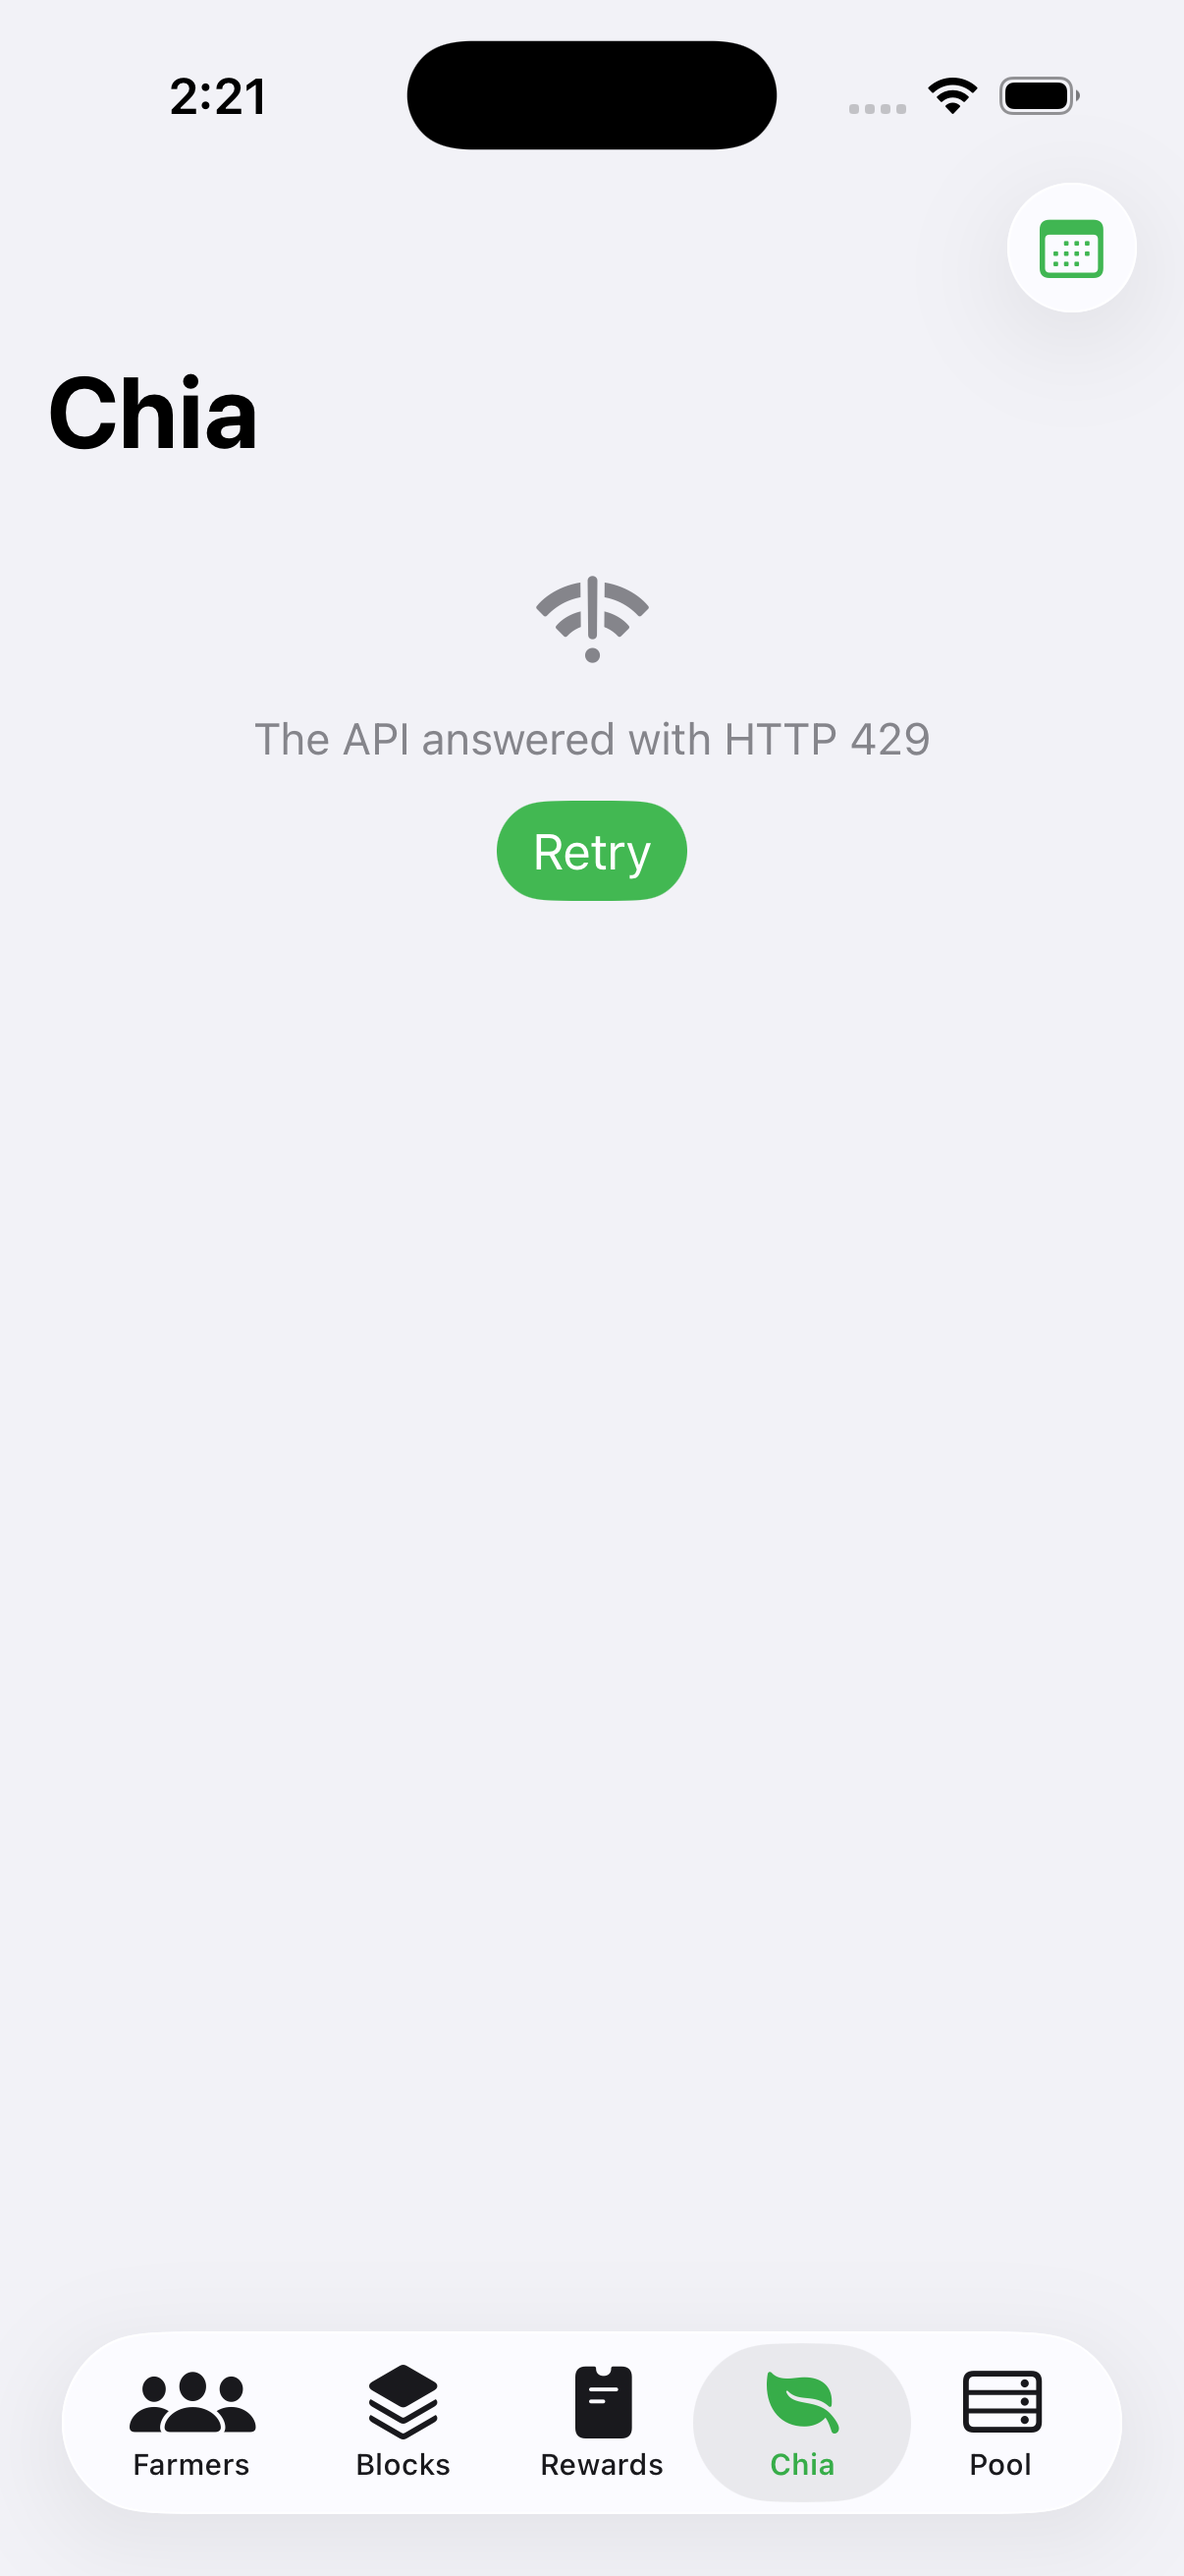
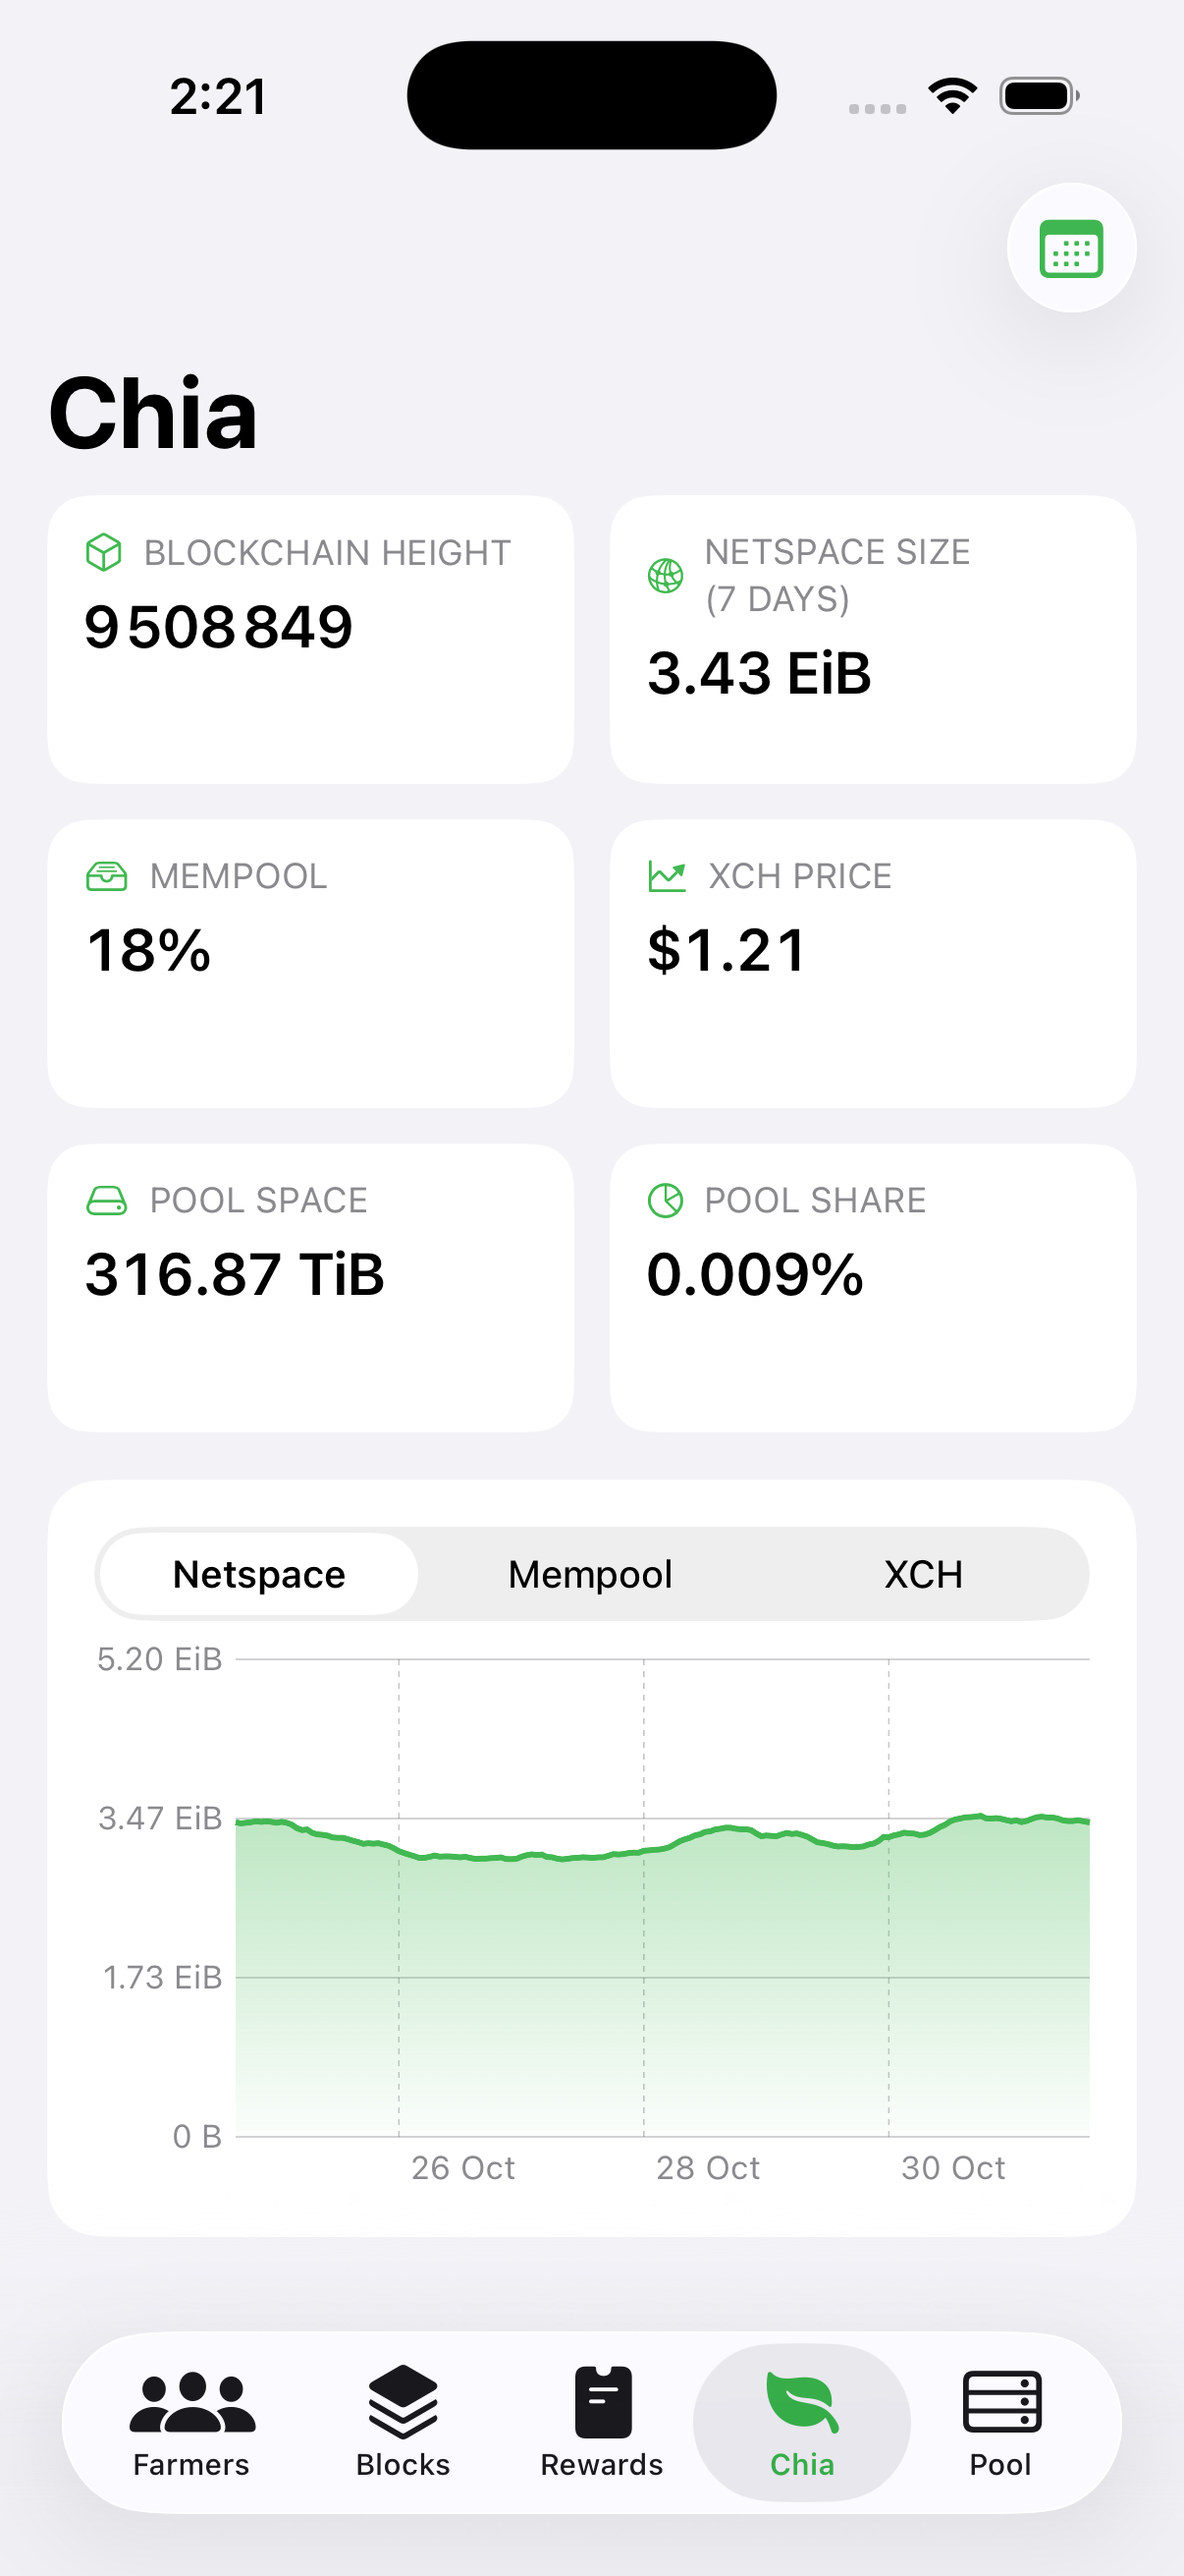
docs(readme): drop the hero screenshot and refresh chia/farmer captures
The screenshots table is now the only place images appear, and the chia/farmer
captures no longer show the rate-limit error state.

diff --git a/README.md b/README.md
@@ -9,10 +9,6 @@ A native **SwiftUI** client for the [Pool.Energy](https://pool.energy) public
 API — the Chia farming pool dashboard, rebuilt for iPhone with live WebSocket
 updates, native charts and seven languages.
 
-<p align="center">
-  <img src="docs/screenshots/farmer.png" width="260" alt="Farmer detail screen">
-</p>
-
 | Farmers | Farmer detail | Blocks |
 | --- | --- | --- |
 | ![Farmers](docs/screenshots/farmers.png) | ![Farmer](docs/screenshots/farmer.png) | ![Blocks](docs/screenshots/blocks.png) |
